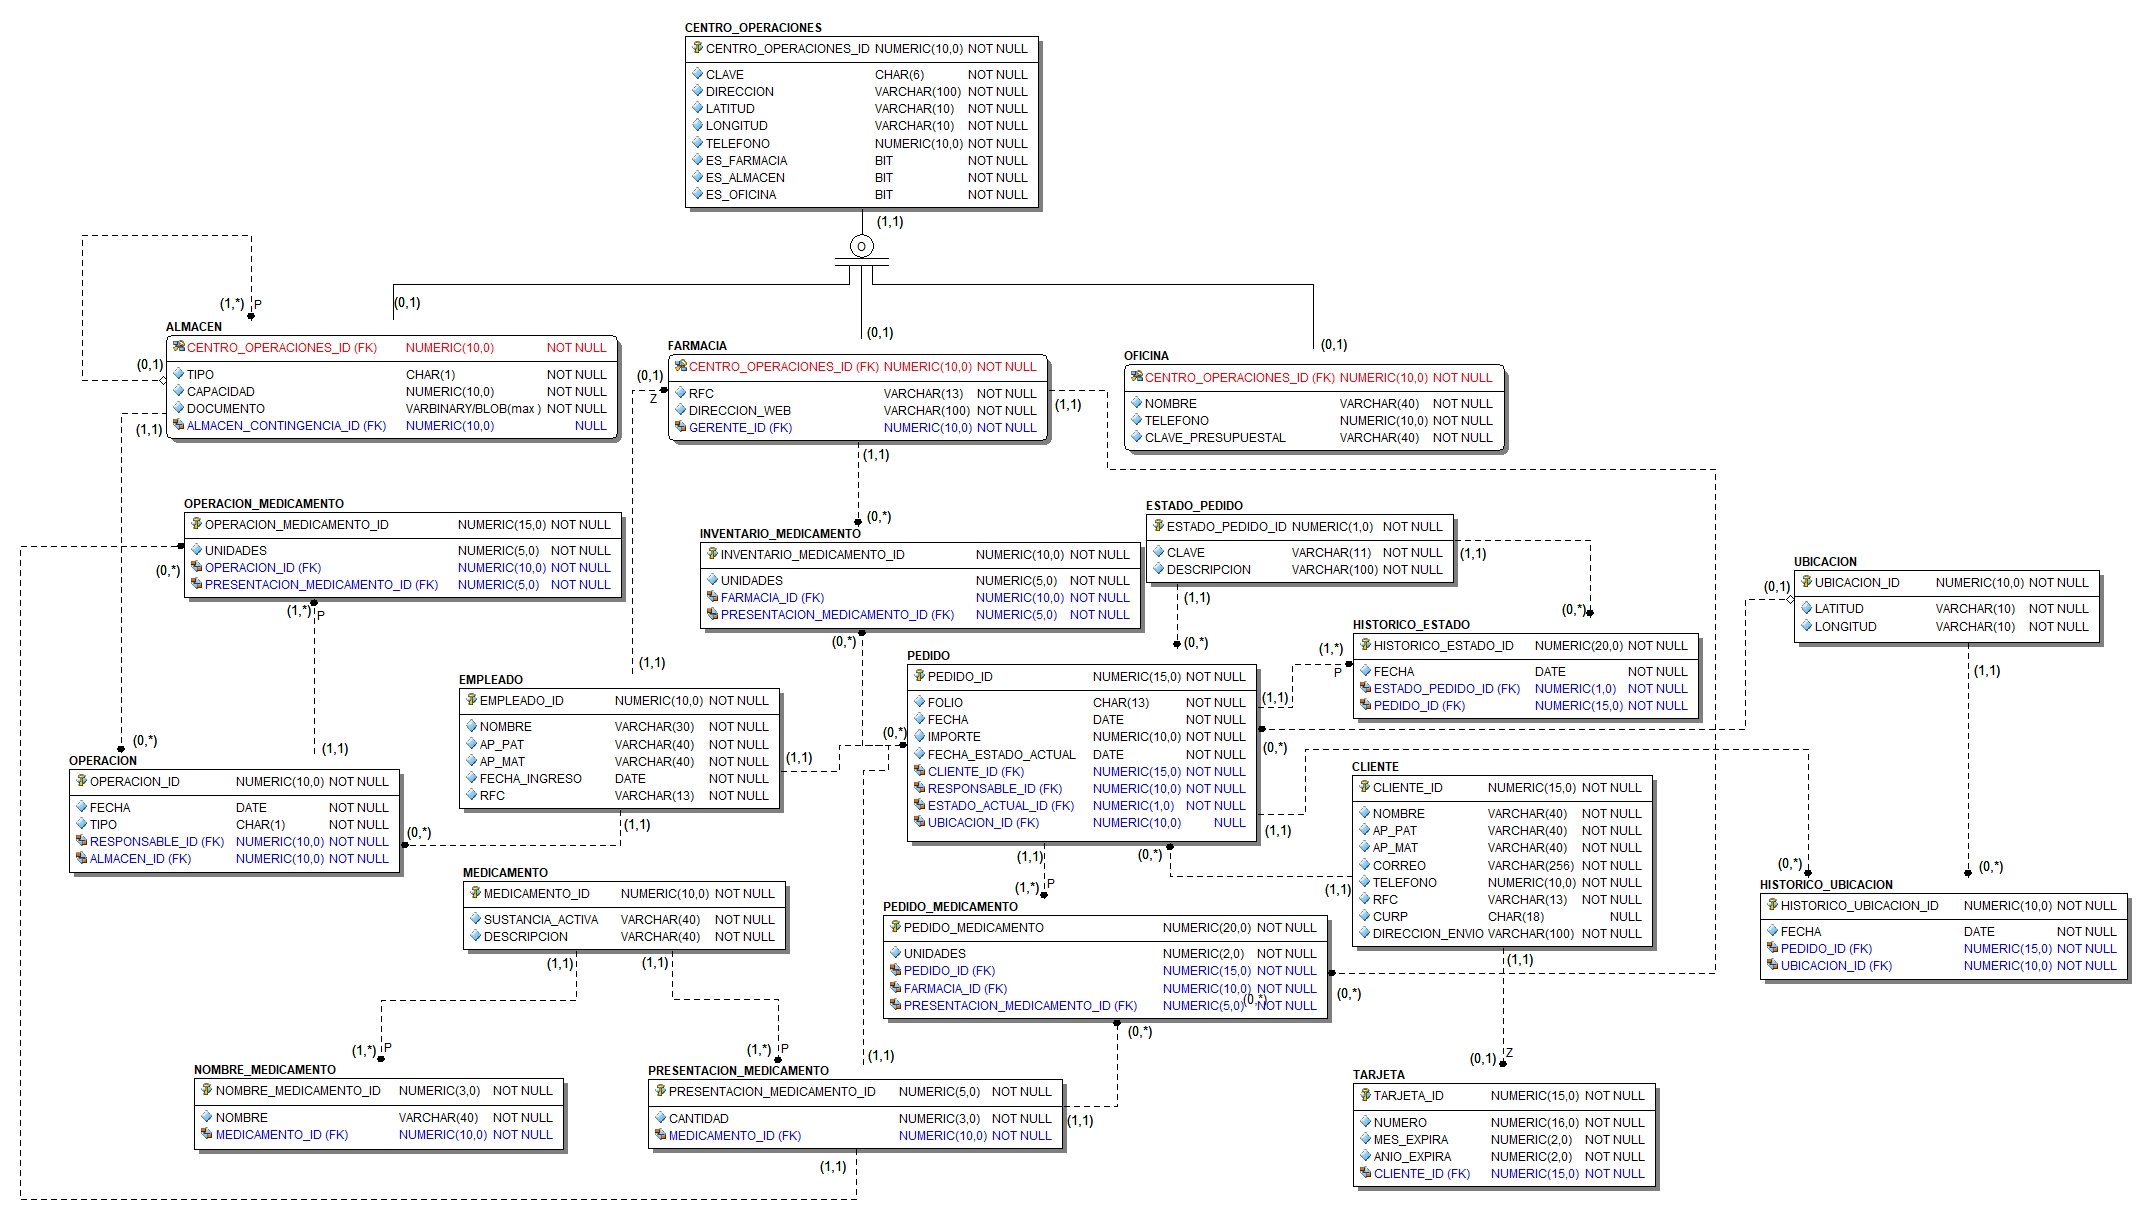
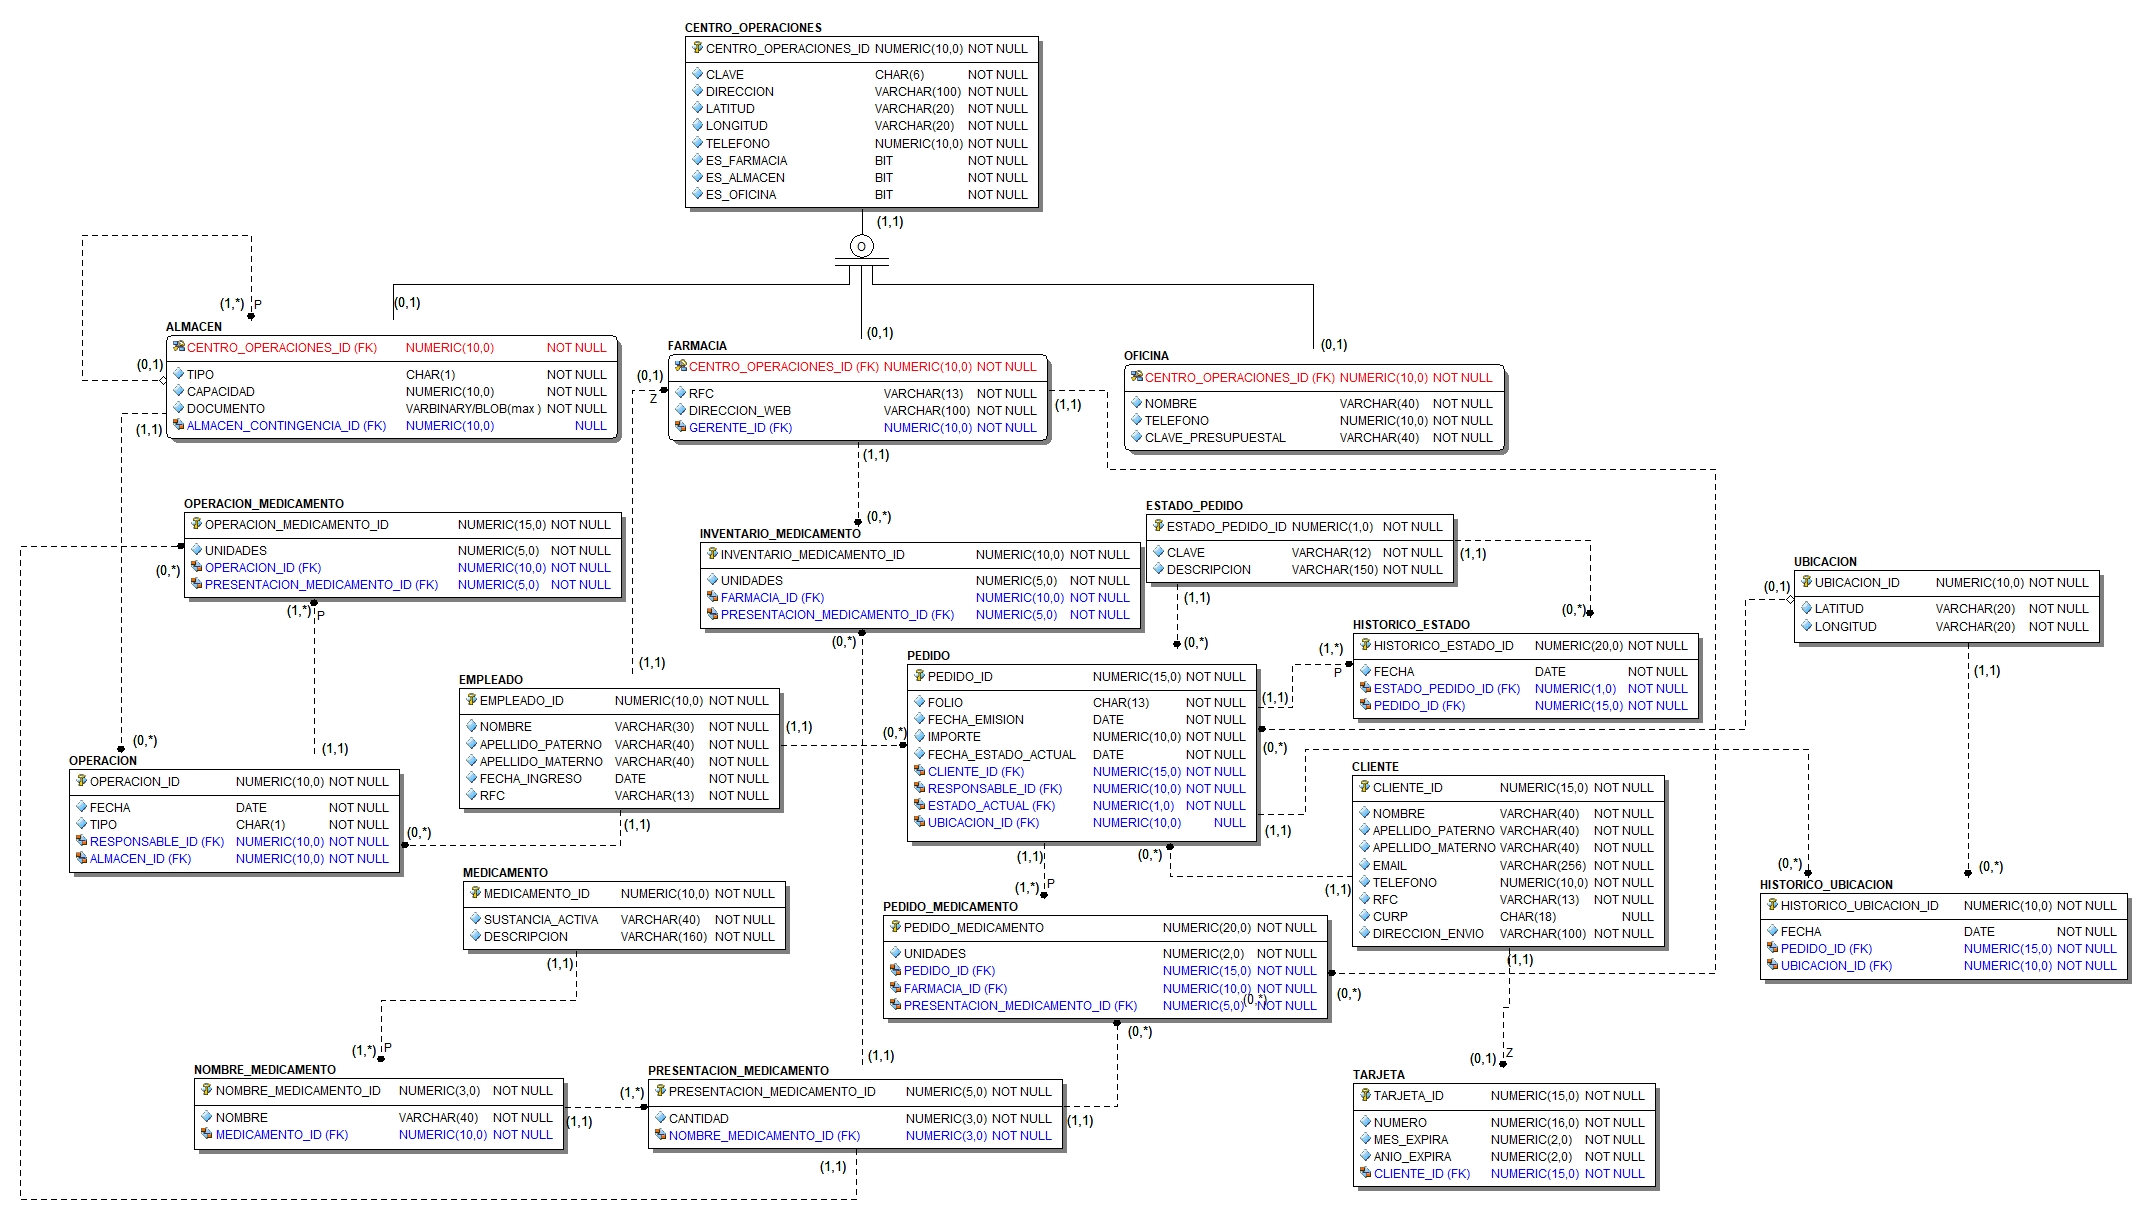
Corrección de modelo relacional, y actualización de README.

diff --git a/README.md b/README.md
@@ -1,1 +1,1 @@
-Falta corregir el modelo relacional, ya que el nombre del id de la entidad PEDIDO_MEDICAMENTO es incorrecto.
+Falta corregir el modelo relacional, la relación entre nombre_medicamento y presentacion_medicamento es incorrecta en su notación.
